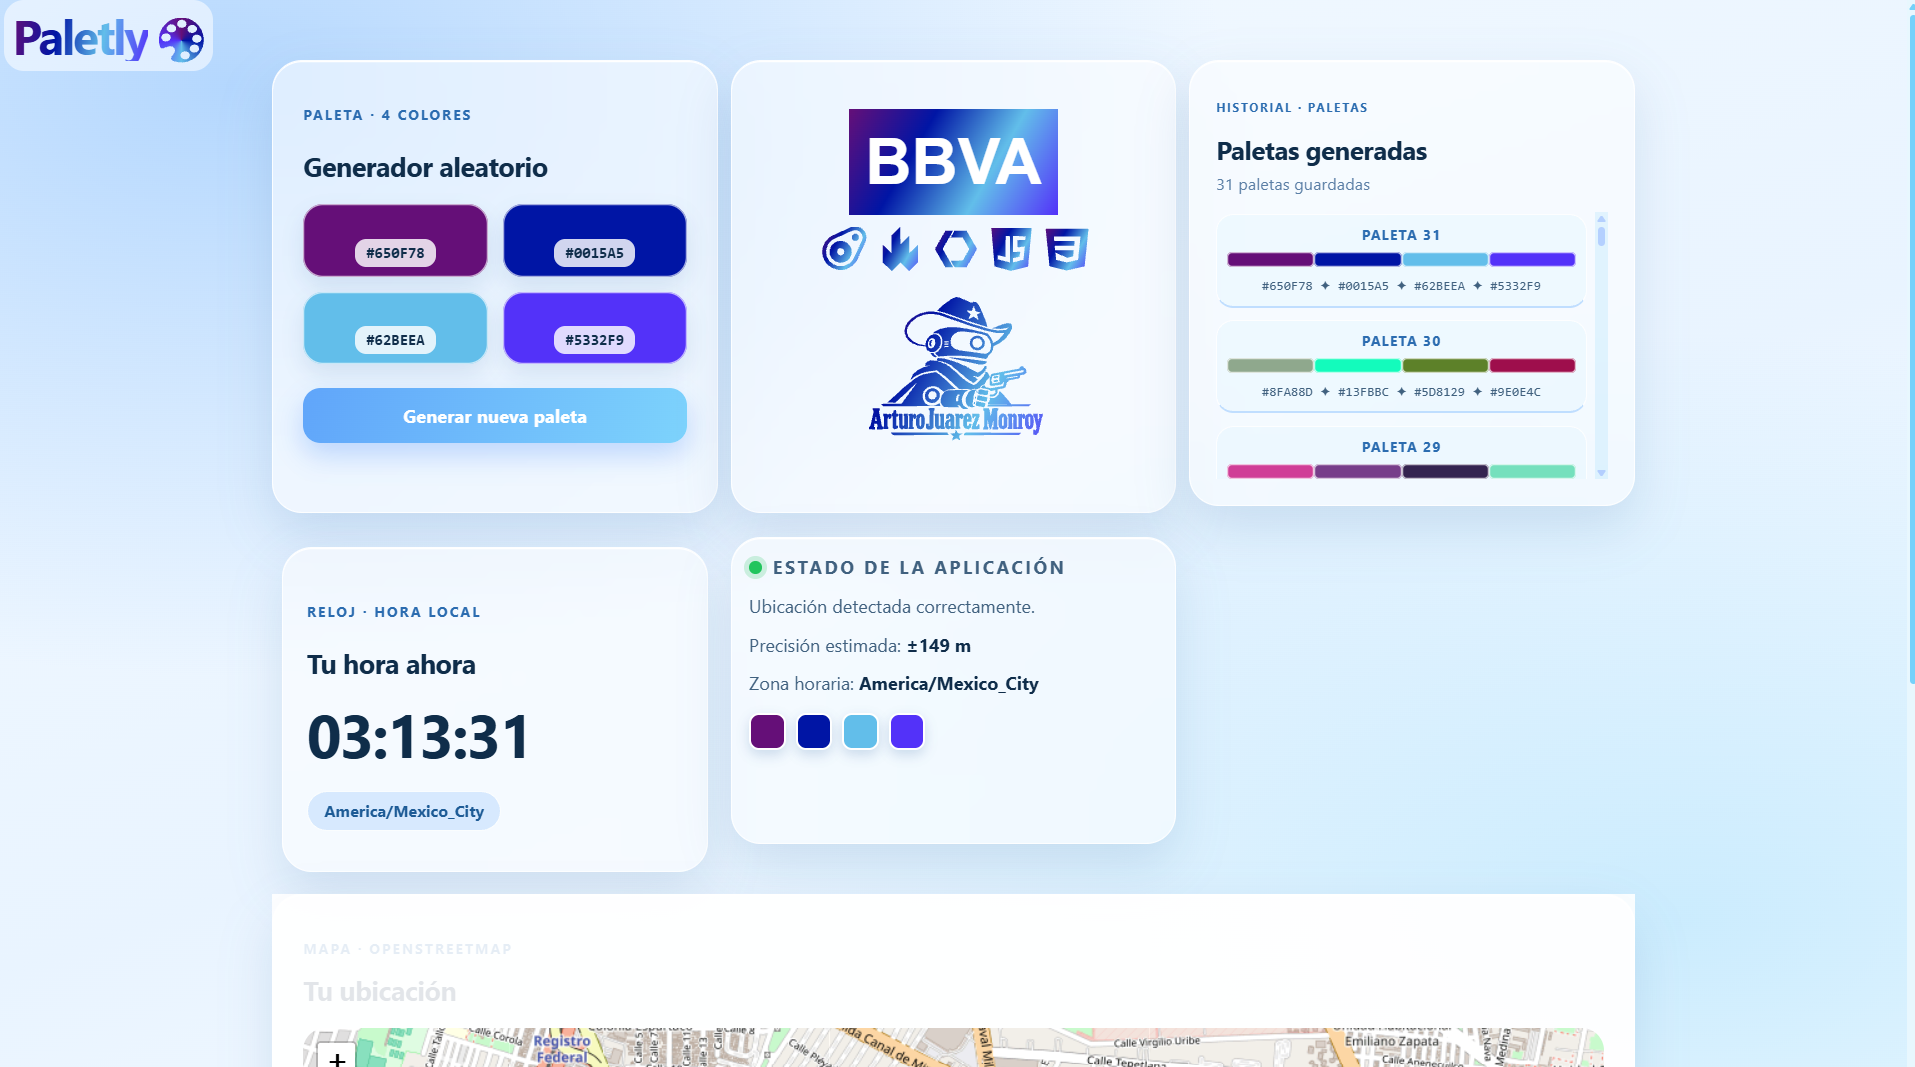
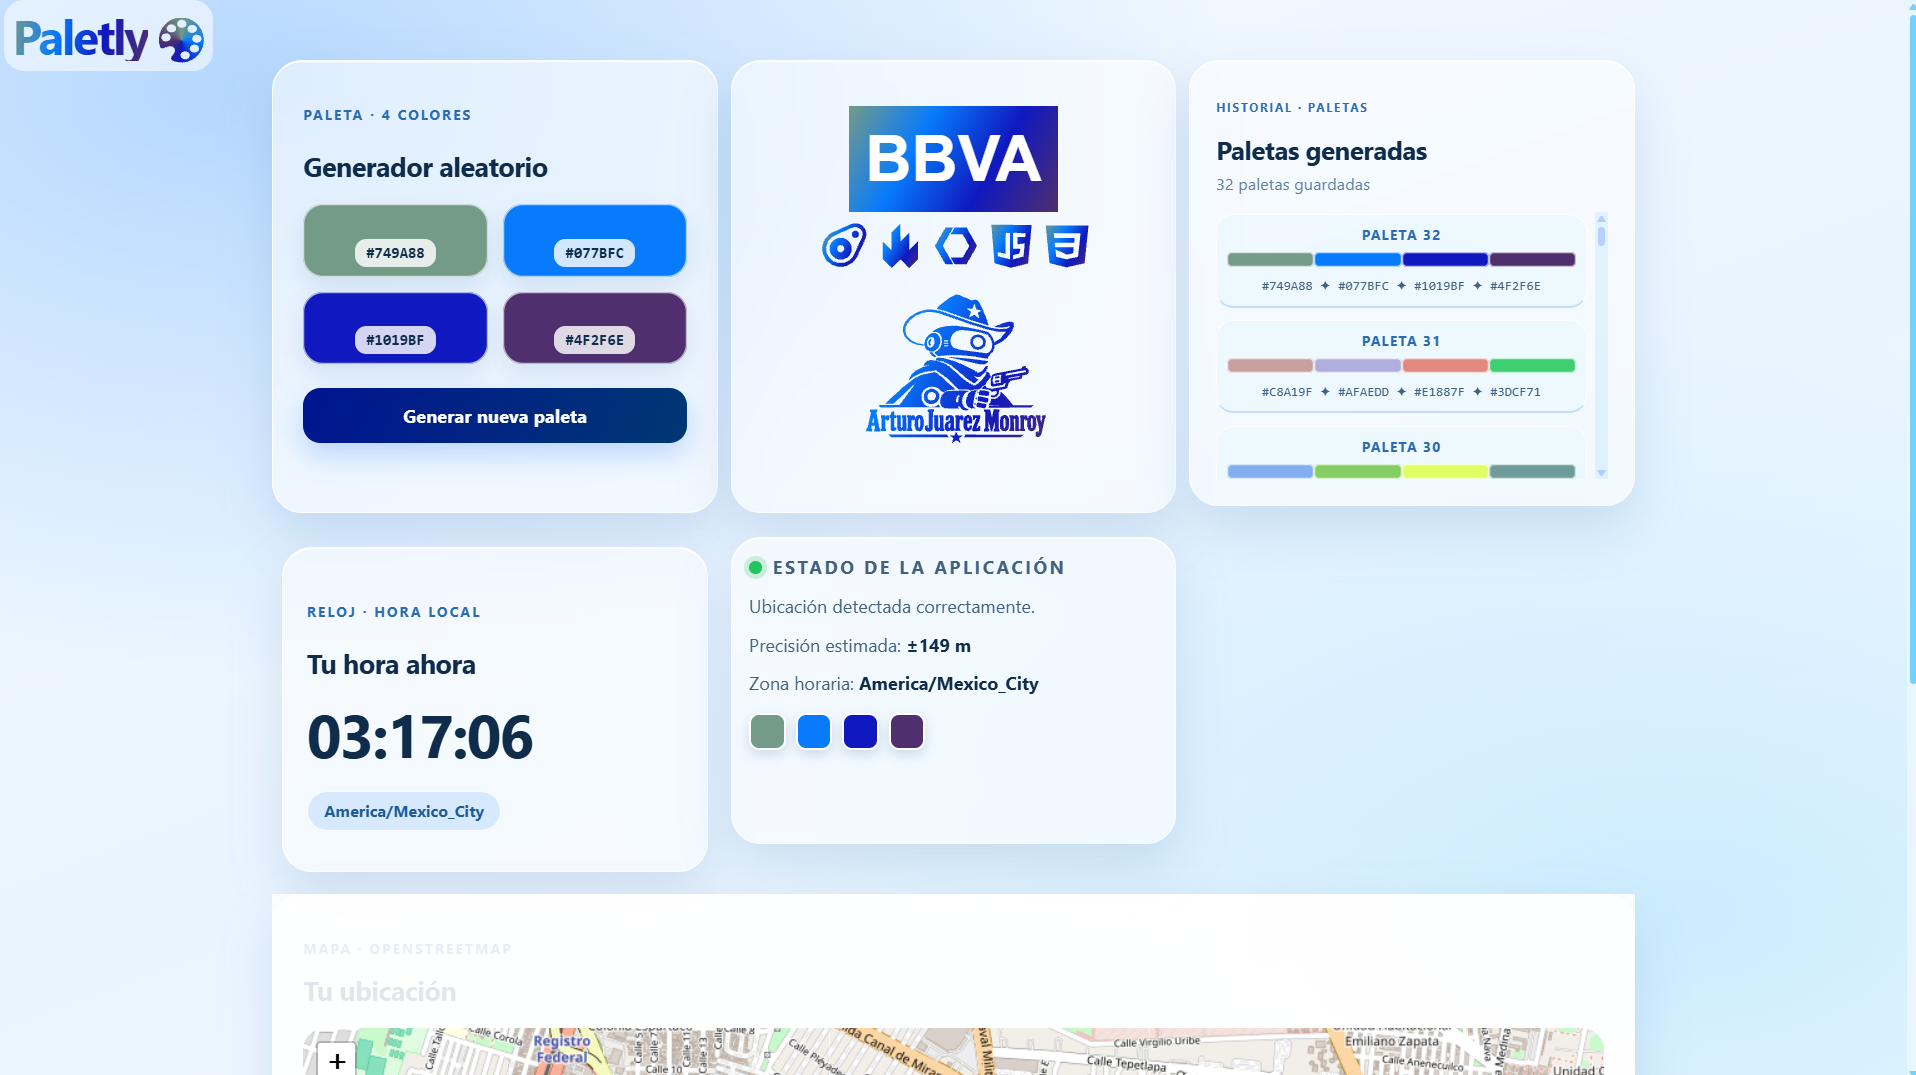
vprevia img

diff --git a/generador-paletas.js b/generador-paletas.js
@@ -85,7 +85,7 @@ class GeneradorPaleta extends LitElement {
       padding: 12px 14px;
       border: 0;
       border-radius: 14px;
-      background: linear-gradient(110deg, #60a5fa, #7dd3fc);
+      background: linear-gradient(110deg, #001491, #003772);
       box-shadow: 0 10px 22px rgba(59, 130, 246, 0.28);
       color: #ffffff;
       cursor: pointer;

diff --git a/bbva-componente.js b/bbva-componente.js
@@ -112,8 +112,8 @@ class BbvaWebComponent extends LitElement {
     }
 
  .arturoicon {
-    width: 150px;
-    height: 150px;
+    width: 155px;
+    height: 155px;
     display: inline-block;
     margin-left: 4px; 
     }
